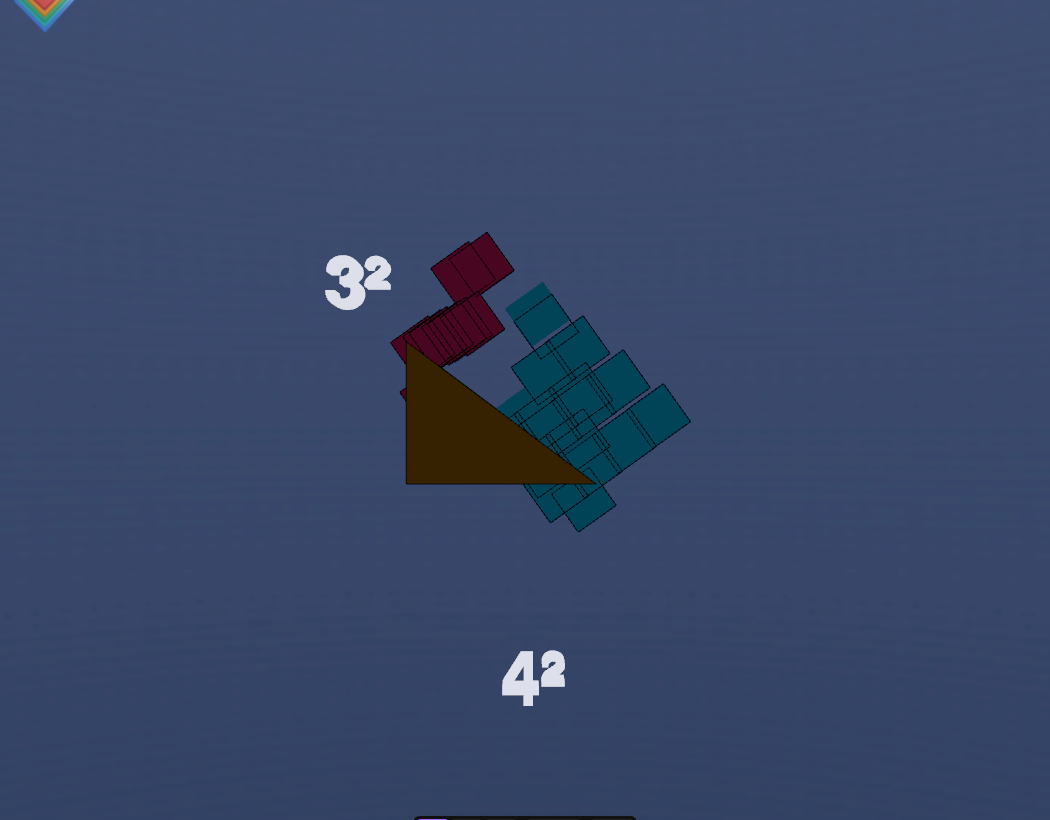
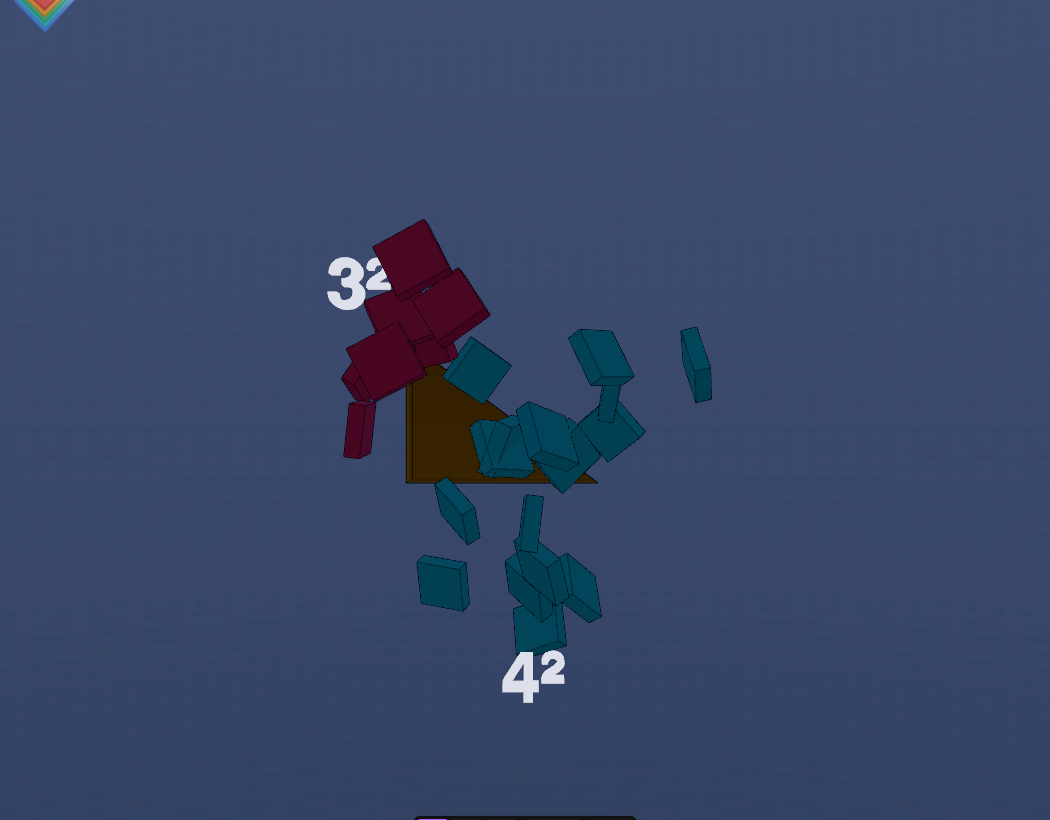
moveToEach: optional 3D tumble (spin, arc, stagger); the Pythagorean tiles use it
moveToEach(target, ms, { spin, arc, stagger, easing }) makes a crowd of sources
flip about their own axes, lift towards the viewer and leave in a scatter, yet
land exactly where a plain move would. Edge outlines are exempt. Timeline code
panel round-trips the options; guide corrected (moveTo already matches the
target's rotation). Tiles are now 0.3 thick; tutorial rebuilt around it and
checked against the published pyth.json.

Changed region(s): [[0.3048, 0.2744, 0.701, 0.8537]]

diff --git a/docs/about/tutorials/makeshort.html b/docs/about/tutorials/makeshort.html
@@ -141,9 +141,9 @@
 	<div class="note"><strong>One paste, one scope.</strong> The Shell does not keep variables between pastes, so every block below is self-contained: it defines what it uses, and anything a later block needs is found again by name or class (<code>$S('#three')</code>, <code>$S('.cube')</code>). Start from an empty scene.</div>
 
 	<h2><span class="step">1</span> Build the three squares out of tiles</h2>
-	<p class="lede">The proof needs the squares to come apart and go back together, so each one is made of unit tiles instead of one big box. A tile is a 1×1×0.1 slab. Tiles sit in a row or a column group, and the group sits in a square group: <code>#3x3-square</code> › <code>#3col1</code> › <code>cube_3.1.1</code>. That nesting is what lets the timeline say "the first column of the 3×3" later.</p>
+	<p class="lede">The proof needs the squares to come apart and go back together, so each one is made of unit tiles instead of one big box. A tile is a 1×1×0.3 slab, thick enough to read as a solid when it tumbles later. Tiles sit in a row or a column group, and the group sits in a square group: <code>#3x3-square</code> › <code>#3col1</code> › <code>cube_3.1.1</code>. That nesting is what lets the timeline say "the first column of the 3×3" later.</p>
 	<pre><code>// A square of side n is n lines (rows or columns) of n tiles. Each tile is a
-// 1 x 1 x 0.1 slab; each line is its own group so the timeline can address it.
+// 1 x 1 x 0.3 slab; each line is its own group so the timeline can address it.
 function makeSquare(n, name, color, kind, place) {
   const square = new Group();
   square.name = name;
@@ -152,7 +152,7 @@ function makeSquare(n, name, color, kind, place) {
     line.name = `${n}${kind}${k}`;
     for (let m = 1; m &lt;= n; m++) {
       const tile = new Mesh(
-        new BoxGeometry(1, 1, 0.1),
+        new BoxGeometry(1, 1, 0.3),
         new MeshStandardMaterial({ color, roughness: 0.6, metalness: 0.2 })
       );
       tile.name = `cube_${n}.${k}.${m}`;
@@ -283,13 +283,16 @@ $S('#four').at(26).change('4\u00B2', { transition: 'fade', dur: 400 });</code></
 $S('#5x5-square .cube').nodes.forEach(t =&gt; { t.material.transparent = true; t.material.opacity = 0; });
 $S('#5x5-square, #5x5-square *, #5x5-square .cube').at(0).fadeOut(1);
 
-// the proof: 9 tiles + 16 tiles flow onto the 25 pad cells, 3 seconds, in selector-list order
-$S('#3x3-square .cube, #4x4-square .cube').at(40).moveToEach('#5x5-square .cube', 3000);</code></pre>
+// the proof: 9 tiles + 16 tiles tumble onto the 25 pad cells, 3 seconds, in selector-list order
+$S('#3x3-square .cube, #4x4-square .cube').at(40).moveToEach('#5x5-square .cube', 3000, {
+  spin: [1, 1, 0], arc: 3, stagger: 0.4, easing: 'ease-in-out'
+});</code></pre>
 	<figure>
 		<img src="screenshots/pythagorean-proof.png" alt="Mid-flight at 42 seconds: red and teal tiles tumbling from the two small squares towards the hypotenuse of the triangle, with the labels 3 squared and 4 squared still showing." loading="lazy">
-		<figcaption>42 seconds in: the tiles are mid-flight. They turn as they travel, because the pad cells they are heading for are rotated 53.13°.</figcaption>
+		<figcaption>41.5 seconds in: the tiles are mid-tumble, flipping about two axes and lifted towards the camera, each on its own arc. They also turn as they travel, because the pad cells they are heading for are rotated 53.13°.</figcaption>
 	</figure>
 	<div class="note"><strong>Why 3 seconds, and why a pad.</strong> Twenty-five tiles at once blur under about a second; three seconds lets a viewer follow "those nine went there, those sixteen went there". Because the destinations are the pad's <em>actual</em> cell positions and rotations, resolved when the timeline is compiled, the reveal is deterministic and reversible when you scrub, and it re-targets itself if you move the pad. The pad is hidden by <em>starting</em> transparent — a bare <code>fadeOut</code> at 0&nbsp;s would show it for the first second.</div>
+	<div class="note"><strong>The 3D tumble: <code>spin</code>, <code>arc</code>, <code>stagger</code>.</strong> The third argument of <code>moveToEach</code> is optional, and without it the tiles just slide and turn to the cells' orientation. With it they fly. <code>spin: [1, 1, 0]</code> is one whole turn about each of the tile's x and y axes (every tile gets a random sign, so they tumble differently); <code>arc: 3</code> lifts each tile up to about three tile-widths towards the camera at mid-flight and back down; <code>stagger: 0.4</code> spreads the start times over 40% of the three seconds and shortens each run to match, so tiles leave in a scatter but all arrive together. Every one of them still ends exactly where the plain move would: whole turns, a lift that is zero at both ends, and a delay paid back by a shorter run. The randomness is a fixed function of each tile's place in the list, so playing, scrubbing and re-rendering give the same tumble. One requirement: the group that holds the tiles must have a <em>uniform</em> scale, because a stretched parent shears a spinning child and multiplies the lift.</div>
 
 	<h2><span class="step">8</span> The sum, read off the screen</h2>
 	<p class="lede">While the tiles are still settling, the labels slide to the bottom into the shape of the sum: <code>3² + 4²</code>, which turns into <code>9 + 16</code>, closes up into <code>25</code>, and is then restated as <code>5²</code> and as the theorem itself. All of it is <code>.change()</code> on the three labels. Each phrase is held for three to five seconds, because a viewer needs that long to read it and connect it to what just happened on screen.</p>
@@ -318,7 +321,7 @@ $S('#eqn').at(60).change('a\u00B2 + b\u00B2 = c\u00B2', { transition: 'fade', du
 // about the height of the 3-4-5 and turned to face `yaw` degrees.
 function makeTriple(id, p, q, c, target, yaw) {
   const k = 10 / (2 * q + p);
-  const thin = 0.1 / k;                        // slab thickness, 0.1 in world units
+  const thin = 0.3 / k;                        // slab thickness, 0.3 in world units
   const outer = new Group();
   outer.name = id;
   outer.position.set(...target);
@@ -401,7 +404,7 @@ function makeCaption(name, target, yaw) {
 makeCaption('eqn2', [-17, 0.68, 20], 90);
 makeCaption('eqn3', [3, 0.68, 40], 180);
 $S('#eqn2, #eqn3').addClass('label');</code></pre>
-	<p>Now the clock. The existing film is untouched up to 65&nbsp;s, where the theorem has been on screen for five seconds. From there each triple gets 16&nbsp;seconds, and they follow the same beat as the 3-4-5: a 2.5-second quarter turn, the triangle, the two squares of tiles fading in one at a time with their areas as captions, then all the tiles flying onto the hypotenuse square (3 seconds, in selector-list order, so the first leg's tiles take the first cells), ending on the sum:</p>
+	<p>Now the clock. The existing film is untouched up to 65&nbsp;s, where the theorem has been on screen for five seconds. From there each triple gets 16&nbsp;seconds, and they follow the same beat as the 3-4-5: a 2.5-second quarter turn, the triangle, the two squares of tiles fading in one at a time with their areas as captions, then all the tiles tumbling onto the hypotenuse square (3 seconds, in selector-list order, so the first leg's tiles take the first cells), ending on the sum. The lift is measured in the figure's own units, and these figures are scaled down (by about 0.35 and 0.26), so <code>arc: 8</code> and <code>arc: 10</code> lift the tiles about as far in the world as <code>arc: 3</code> does on the full-size 3-4-5:</p>
 	<pre><code>// 65-81 s: a quarter turn to the left, the 5-12-13 triple
 $S('#eqn2').at(0).change('');
 $S('#PerspectiveCamera').at(65).animate({ to: { rotation: [0, 90, 0] } }, 2500);
@@ -410,7 +413,9 @@ $S('#t2-p .tile').at(68).fadeIn(1);
 $S('#eqn2').at(68).change('5\u00B2 = 25', { transition: 'fade', dur: 400 });
 $S('#t2-q .tile').at(70).fadeIn(1);
 $S('#eqn2').at(70).change('12\u00B2 = 144', { transition: 'fade', dur: 400 });
-$S('#t2-p .tile, #t2-q .tile').at(72.5).moveToEach('#t2-pad .cell', 3000);
+$S('#t2-p .tile, #t2-q .tile').at(72.5).moveToEach('#t2-pad .cell', 3000, {
+  spin: [1, 1, 0], arc: 8, stagger: 0.4, easing: 'ease-in-out'
+});
 $S('#eqn2').at(72.5).change('25 + 144', { transition: 'fade', dur: 400 });
 $S('#eqn2').at(75.5).change('= 169 = 13\u00B2', { transition: 'fade', dur: 400 });
 
@@ -422,7 +427,9 @@ $S('#t3-p .tile').at(84).fadeIn(1);
 $S('#eqn3').at(84).change('8\u00B2 = 64', { transition: 'fade', dur: 400 });
 $S('#t3-q .tile').at(86).fadeIn(1);
 $S('#eqn3').at(86).change('15\u00B2 = 225', { transition: 'fade', dur: 400 });
-$S('#t3-p .tile, #t3-q .tile').at(88.5).moveToEach('#t3-pad .cell', 3000);
+$S('#t3-p .tile, #t3-q .tile').at(88.5).moveToEach('#t3-pad .cell', 3000, {
+  spin: [1, 1, 0], arc: 10, stagger: 0.4, easing: 'ease-in-out'
+});
 $S('#eqn3').at(88.5).change('64 + 225', { transition: 'fade', dur: 400 });
 $S('#eqn3').at(91.5).change('= 289 = 17\u00B2', { transition: 'fade', dur: 400 });</code></pre>
 
@@ -499,7 +506,7 @@ $S('#PerspectiveCamera').at(97).animate({ to: { rotation: [0, 270, 0] } }, 2500)
 
 	<h2 id="open-finished"><span class="step">13</span> Open the finished scene</h2>
 	<p class="lede"><a href="../../#repo=tejaswigowda/test1&amp;file=pyth.json&amp;branch=main">pyth.json</a> in <code>tejaswigowda/test1</code> is the scene these blocks build: 50 tiles in 12 lines, the triangle, the three labels, the camera, the background and the call card, plus the two extra triples (458 more tiles, their landing cells and captions), with the same 22 timeline tracks, the same 100.5-second clock and the same 23 subtitle cues. Open it, then scrub the Animations tab: at 24&nbsp;s the 3×3 has unfolded, at 43&nbsp;s all 25 tiles sit on the pad, at 78&nbsp;s the 5-12-13 sum is on screen, at 94&nbsp;s the 8-15-17 one, and from 100&nbsp;s the card fills the frame.</p>
-	<div class="note"><strong>What was checked, and what differs.</strong> Every block on this page was pasted, one paste at a time, into an empty scene, with the three Text stencils, the Call card stencil and <strong>+ Add Shot</strong> clicked where the text says so. The result was compared with <code>pyth.json</code>: the same 22 timeline tracks with the same events at the same times, the same 23 subtitle cues word for word, and a frame at each of fourteen times from 0 to 98&nbsp;s that differs from the published one by under 3% of its pixels. The final end-card frame (100&nbsp;s) is the exception: the card is re-baked from the live <a href="../callcard/">/about/callcard</a> page every time a scene loads, so two loads of the same scene can bake differently, and it was not compared. Three small differences are deliberate: the published file keeps its tiles at an offset inside their groups, so two of its <code>positionX</code>/<code>positionY</code> values read 9.4 and 4.4 where yours read 0.4 and −0.6 (the same place in the world); it nests the three labels in a <code>Labels</code> group, which nothing addresses; and its pad cells are numbered in a different order, with the same nine-and-sixteen split. Rendering (step 12) was not re-run for this revision. The scene file is now about 4.8&nbsp;MB, nearly all of it baked animation, chiefly the flight paths of the 483 tiles that move; the editor rebuilds them from the timeline on load, so they are a cache, not something to edit.</div>
+	<div class="note"><strong>What was checked, and what differs.</strong> Every block on this page was pasted, one paste at a time, into an empty scene, with the three Text stencils, the Call card stencil and <strong>+ Add Shot</strong> clicked where the text says so. The result was compared with <code>pyth.json</code>: the same 22 timeline tracks with the same events at the same times, the same 23 subtitle cues word for word, and a frame at each of twelve times from 0 to 98&nbsp;s, chosen away from the flights, that differs from the published one by under 3% of its pixels. The tumbles themselves are not compared pixel for pixel: each tile's flight is a fixed function of its place in the list, and the published file lists its first triple's tiles in a different order, so the same tiles tumble differently there. The final end-card frame (100&nbsp;s) is the exception: the card is re-baked from the live <a href="../callcard/">/about/callcard</a> page every time a scene loads, so two loads of the same scene can bake differently, and it was not compared. Three small differences are deliberate: the published file keeps its tiles at an offset inside their groups, so two of its <code>positionX</code>/<code>positionY</code> values read 9.4 and 4.4 where yours read 0.4 and −0.6 (the same place in the world); it nests the three labels in a <code>Labels</code> group, which nothing addresses; and its pad cells are numbered in a different order, with the same nine-and-sixteen split. Rendering (step 12) was not re-run for this revision. The scene file is now about 4.8&nbsp;MB, nearly all of it baked animation, chiefly the flight paths of the 483 tiles that move; the editor rebuilds them from the timeline on load, so they are a cache, not something to edit.</div>
 
 	<footer>
 		<a href="./">← All tutorials</a> · <a href="../">About</a>

diff --git a/docs/editor/js/intelligence/animationRecipes.js b/docs/editor/js/intelligence/animationRecipes.js
@@ -1625,6 +1625,11 @@ export function changeRecipe( node, params = {} ) {
  * wrong whenever the mover's parent isn't identically oriented to the
  * target's. Omitted entirely when no targetQuaternion is given, so plain
  * moveTo()/moveToEach() calls that never asked for rotation are unaffected.
+ *
+ * Optional flourish (moveToEach options; `eachIndex` is injected by compileTimeline):
+ *   spin    [turnsX, turnsY, turnsZ]  whole turns about the parent's axes, each with a random sign
+ *   arc     lift along the parent's +Z at mid-flight, in the parent's units
+ *   stagger 0..0.9, the share of the duration over which the sources' start times are spread
  */
 export function moveToRecipe( node, params = {} ) {
 
@@ -1654,25 +1659,59 @@ export function moveToRecipe( node, params = {} ) {
 
 	}
 
-	const N = ( isLinear && ! Q1 ) ? 1 : Math.min( 60, Math.max( 8, Math.ceil( duration * 12 ) ) );
+	// Optional 3D flourish (moveToEach(target, ms, { spin, arc, stagger })). All three end exactly where a
+	// plain move would: whole turns, a lift that is zero at both ends, and a start delay that is made up
+	// for by a shorter run. An edge outline is a child that must stay glued to its tile, so it is exempt.
+	const flourish = ! ( node.userData && node.userData.isEdgeOutline );
+	const spin = flourish && Array.isArray( params.spin ) ? params.spin.map( Number ).slice( 0, 3 ) : null;
+	const arc = flourish ? Number( params.arc ) || 0 : 0;
+	const stagger = flourish ? Math.min( 0.9, Math.max( 0, Number( params.stagger ) || 0 ) ) : 0;
+	const lively = !! ( spin || arc || stagger );
+
+	// A stable pseudo-random number per source (its index in the set), so every compile of the same
+	// scene gives the same tumble.
+	const index = Number( params.eachIndex ) || 0;
+	const rand = ( salt ) => { const x = Math.sin( ( index + 1 ) * 12.9898 + salt * 78.233 ) * 43758.5453; return x - Math.floor( x ); };
+	const delay = stagger * rand( 1 );                       // fraction of the whole duration
+	const run = 1 - stagger;                                 // fraction each source takes to travel
+	const turns = spin ? spin.map( ( n, axis ) => n * ( rand( 2 + axis ) < 0.5 ? - 1 : 1 ) ) : null;
+	const lift = arc * ( 0.6 + 0.8 * rand( 5 ) );            // each source flies a slightly different arc
+
+	const N = ( isLinear && ! Q1 && ! lively ) ? 1 : Math.min( 60, Math.max( 8, Math.ceil( duration * ( lively ? 15 : 12 ) ) ) );
 	const times = [];
 	const posValues = [];
 	const rotValues = [];
+	const withRotation = !! ( Q1 || spin );
+	const spinEuler = new THREE.Euler();
+	const spinQ = new THREE.Quaternion();
 
 	for ( let i = 0; i <= N; i ++ ) {
 
 		const t = i / N;
-		const k = ease( t );
+		const u = lively ? Math.min( 1, Math.max( 0, ( t - delay ) / run ) ) : t;
+		const k = ease( u );
 		times.push( t * duration );
+
+		// the lift goes along the parent's +Z, i.e. out of the figure's plane towards the viewer
+		const rise = lift * Math.sin( Math.PI * k );
 		posValues.push(
 			P0.x + ( P1.x - P0.x ) * k,
 			P0.y + ( P1.y - P0.y ) * k,
-			P0.z + ( P1.z - P0.z ) * k
+			P0.z + ( P1.z - P0.z ) * k + rise
 		);
 
-		if ( Q1 ) {
+		if ( withRotation ) {
 
-			const q = new THREE.Quaternion().copy( Q0 ).slerp( Q1, k );
+			const q = new THREE.Quaternion().copy( Q0 );
+			if ( Q1 ) q.slerp( Q1, k );
+
+			if ( turns ) {
+
+				spinEuler.set( turns[ 0 ] * 2 * Math.PI * k, turns[ 1 ] * 2 * Math.PI * k, ( turns[ 2 ] || 0 ) * 2 * Math.PI * k );
+				q.premultiply( spinQ.setFromEuler( spinEuler ) );
+
+			}
+
 			rotValues.push( q.x, q.y, q.z, q.w );
 
 		}
@@ -1680,7 +1719,7 @@ export function moveToRecipe( node, params = {} ) {
 	}
 
 	const tracks = [ vectorTrack( node.uuid, 'position', times, posValues ) ];
-	if ( Q1 ) tracks.push( quaternionTrack( node.uuid, times, rotValues ) );
+	if ( withRotation ) tracks.push( quaternionTrack( node.uuid, times, rotValues ) );
 
 	return new THREE.AnimationClip( 'MoveTo', - 1, tracks );
 

diff --git a/docs/editor/js/intelligence/opPrimitive.js b/docs/editor/js/intelligence/opPrimitive.js
@@ -102,7 +102,7 @@ export const OP_VOCABULARY = {
 
 	// ── Object-referenced destination tween (SET form only — the singular form
 	// overloads the existing edit `moveTo` below; see ChainableSet.moveTo()) ──
-	moveToEach:  { kind: 'anim', args: { target: 'string', duration: 'number?' },  summary: 'animate a SET of objects to a SET of target objects, paired positionally (source[i] -> target[i]). A source/target count mismatch warns (console) rather than silently truncating or wrapping.' },
+	moveToEach:  { kind: 'anim', args: { target: 'string', duration: 'number?', spin: 'vec3?', arc: 'number?', stagger: 'number?', easing: 'string?' },  summary: 'animate a SET of objects to a SET of target objects, paired positionally (source[i] -> target[i]). A source/target count mismatch warns (console) rather than silently truncating or wrapping.' },
 
 	// ── Entrance animations (appear with style) ──
 	fadeIn:        { kind: 'anim', args: { duration: 'number?' },                                         summary: 'fade in from transparent' },
@@ -597,11 +597,25 @@ class ChainableSet {
 	 * wrapping — subset your selectors so the counts match.
 	 *
 	 *   $S('#3x3-square .cube').at(3).moveToEach('#5x5-square .cellGroupA', 800)
+ *   $S('.tile').at(3).moveToEach('.cell', 3000, { spin: [1, 1, 0], arc: 3, stagger: 0.4, easing: 'ease-in-out' })
 	 */
-	moveToEach( target, dur = 400 ) {
+	moveToEach( target, dur = 400, options = {} ) {
 
 		const seconds = Math.max( 0, Number( dur ) || 0 ) / 1000;
-		return this._recordAnim( { type: 'moveToEach', target: String( target ), duration: seconds } );
+		const op = { type: 'moveToEach', target: String( target ), duration: seconds };
+
+		// Optional 3D flourish, stored on the event: spin [turnsX, turnsY, turnsZ], arc (lift towards
+		// the viewer), stagger (0..0.9), easing. See moveToRecipe in animationRecipes.js.
+		if ( options && typeof options === 'object' ) {
+
+			if ( Array.isArray( options.spin ) ) op.spin = options.spin.slice( 0, 3 ).map( Number );
+			if ( options.arc !== undefined ) op.arc = Number( options.arc ) || 0;
+			if ( options.stagger !== undefined ) op.stagger = Math.min( 0.9, Math.max( 0, Number( options.stagger ) || 0 ) );
+			if ( typeof options.easing === 'string' ) op.easing = options.easing;
+
+		}
+
+		return this._recordAnim( op );
 
 	}
 

diff --git a/docs/editor/js/Timeline.js b/docs/editor/js/Timeline.js
@@ -991,8 +991,20 @@ function Timeline( editor ) {
 
 								if ( rest ) {
 
-									const ms = parseFloat( rest );
+									// '3000' or '3000, { spin: [1, 1, 0], arc: 3, stagger: 0.4, easing: 'ease-in-out' }'
+									const parts = Function( `"use strict"; return [${ rest }]` )();
+									const ms = parseFloat( parts[ 0 ] );
 									if ( ! isNaN( ms ) ) dur = ms / 1000;
+
+									const o = parts[ 1 ];
+									if ( op === 'moveToEach' && o && typeof o === 'object' ) {
+
+										if ( Array.isArray( o.spin ) ) args.spin = o.spin.slice( 0, 3 ).map( Number );
+										if ( o.arc !== undefined ) args.arc = Number( o.arc ) || 0;
+										if ( o.stagger !== undefined ) args.stagger = Math.min( 0.9, Math.max( 0, Number( o.stagger ) || 0 ) );
+										if ( typeof o.easing === 'string' ) args.easing = o.easing;
+
+									}
 
 								}
 
@@ -2900,7 +2912,12 @@ function Timeline( editor ) {
 		if ( op === 'moveTo' || op === 'moveToEach' ) {
 
 			const ms = Math.round( ( dur ?? args.duration ?? 0 ) * 1000 );
-			return `${ fmtVal( args.target ?? '' ) }, ${ ms }`;
+			const flourish = [];
+			if ( Array.isArray( args.spin ) ) flourish.push( `spin: [${ args.spin.join( ', ' ) }]` );
+			if ( args.arc !== undefined ) flourish.push( `arc: ${ args.arc }` );
+			if ( args.stagger !== undefined ) flourish.push( `stagger: ${ args.stagger }` );
+			if ( typeof args.easing === 'string' && args.easing !== 'linear' ) flourish.push( `easing: ${ fmtVal( args.easing ) }` );
+			return `${ fmtVal( args.target ?? '' ) }, ${ ms }${ op === 'moveToEach' && flourish.length ? `, { ${ flourish.join( ', ' ) } }` : '' }`;
 
 		}
 

diff --git a/docs/editor/js/intelligence/timeline.js b/docs/editor/js/intelligence/timeline.js
@@ -905,7 +905,7 @@ export function compileTimeline( model, ctx ) {
 				if ( perNodeTargetWorld && ! perNodeTargetWorld[ ni ] ) continue;
 
 				let nodeParams = perNodeTargetWorld
-					? { ...params, targetWorld: perNodeTargetWorld[ ni ], targetQuaternion: perNodeTargetQuaternion[ ni ] }
+					? { ...params, targetWorld: perNodeTargetWorld[ ni ], targetQuaternion: perNodeTargetQuaternion[ ni ], eachIndex: ni }
 					: params;
 
 				if ( params.lookAtWorld && lastAim.has( node.uuid ) ) nodeParams = { ...nodeParams, lookFromWorld: lastAim.get( node.uuid ) };

diff --git a/guides/ANIMATION.md b/guides/ANIMATION.md
@@ -132,7 +132,14 @@ $S('#4x4-square .cube').at(3).moveToEach('#5x5-square .cellGroupB', 800)   // 16
 - **Destination is resolved at COMPILE time, not tracked live.** `moveTo`/`moveToEach` bake the target's *world position* into an ordinary absolute-position keyframe track the moment the timeline compiles — they do not follow the target during playback. This is a deliberate choice: the target is static authoring scaffolding ("go to where that is"), and baking makes the result a **plain, portable TRS translation track** — the same channel every glTF viewer already honors, no custom runtime dependency. (Playback-time following is a different verb, `follow()`, out of scope here.)
 - **The reference is what's stored — the coordinate is a derived compile output.** The scene JSON stores `{ at, op:'moveTo'|'moveToEach', args:{ target: selector }, dur }`, just like any other timeline event. Move the target object and recompile (`syncTimeline`, which runs automatically) and the mover(s) re-resolve to the new position — no animation code to edit.
 - **`moveToEach` pairs positionally**: source[i] ↔ target[i], in the same deterministic order `$S` yields each set. **A count mismatch warns (console), it never silently truncates, wraps, or drops.** Resolve a mismatch by subsetting your selectors so the counts match (e.g. split a 5×5 target square into a 9-cell `.cellGroupA` and a 16-cell `.cellGroupB` to match a 3×3 and a 4×4 source set).
-- **Position only** — `moveTo`/`moveToEach` never touch rotation or scale; compose a separate `.animate()` (or another recipe) on the same object/track for those.
+- **Position and orientation, never scale.** `moveTo`/`moveToEach` also turn the mover to the target's world rotation (a tile sent to a cell on a sloped square lands lying on the slope). Scale is untouched; compose a separate `.animate()` for that.
+- **Optional 3D flourish for `moveToEach`:** a third argument `{ spin, arc, stagger, easing }` makes a crowd of sources fly instead of slide, and every one still lands exactly where a plain move would. `spin: [x, y, z]` is whole turns about the parent's axes (each source gets a random sign, so they tumble differently), `arc` is a lift towards the viewer along the parent's +Z at mid-flight (in the parent's units; each source gets a slightly different height), `stagger` (0 to 0.9) spreads the start times over that fraction of the duration (the run is shortened to match, so everything still ends together), and `easing` is the usual CSS timing function. The randomness is a fixed function of each source's index, so recompiling gives the same tumble. Edge-outline helper children are exempt so they stay glued to their tiles.
+
+```js
+$S('.tile').at(3).moveToEach('.cell', 3000, { spin: [1, 1, 0], arc: 3, stagger: 0.4, easing: 'ease-in-out' })
+```
+
+> The parent's scale matters: a parent with a non-uniform scale shears a spinning child and multiplies the lift, so keep the groups that hold flying tiles at a uniform scale.
 - **Composes normally**: an object can `moveTo` and `scale`/`fadeIn`/etc. at once (separate channels on the same clip); scrubbing is deterministic and reversible like any other baked keyframe track.
 
 **glTF export:** because the destination is already baked to a standard position track at compile time, `moveTo`/`moveToEach` need **no export-time lowering at all** — the track rides through the normal combined-clip export path unchanged, and plays in any glTF viewer. The target scaffold object itself does **not** need to be exported: mark it **hidden** (`Visible` unchecked in the Object panel) and it — and its whole subtree — is skipped automatically (`GLTFExporter`'s `onlyVisible` default), leaving only the resolved coordinates baked into the movers.
